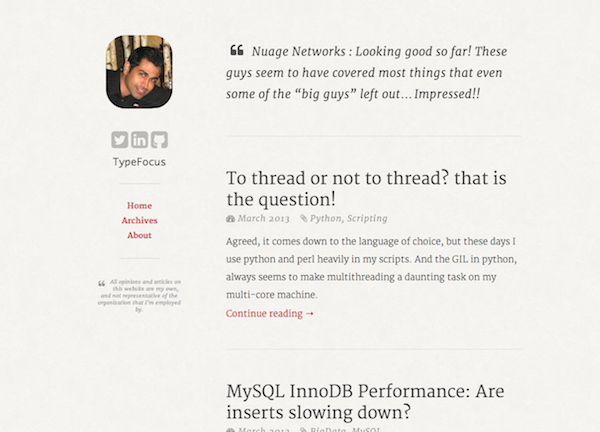
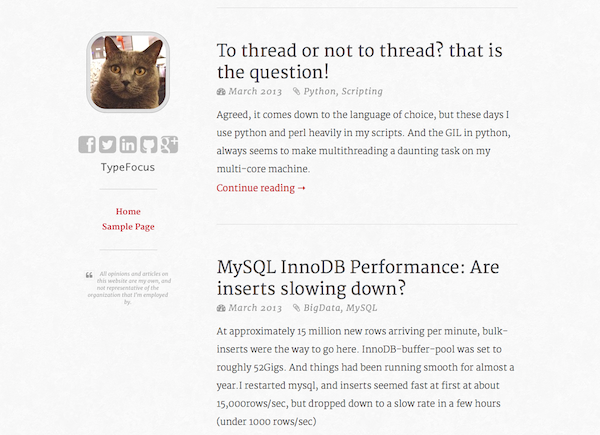
.

diff --git a/typefocus-neutral.css b/typefocus-neutral.css
@@ -196,7 +196,11 @@ i.fa-quote-left{
     border-radius: 40px;
 	-webkit-border-radius: 40px;
 	-moz-border-radius: 40px;
-   
+    padding:0.7rem;
+    background:rgba(0,0,0,0.1);
+    border-color: rgba(0,0,0,0.2);
+    border-width:0.1rem;
+    border-style:solid;  
     
 }
 h1.site-title{
@@ -204,12 +208,14 @@ h1.site-title{
     margin-bottom:30px;
 }
 h2.site-description{
-    font: 300 1.4rem "Gill Sans", "Gill Sans MT", Calibri, sans-serif;
+    font: 300 1.6rem  'Merriweather', serif;
     width:60%;
     margin:0 auto;
     margin-bottom:30px;
+	display:none;
 }
-#menu-navbar{
+#menu-navbar,
+ul.nav-menu{
     border-top:1px solid #ccc;
     border-bottom:1px solid #ccc;
     padding:30px 0px;
@@ -217,10 +223,12 @@ h2.site-description{
     display: inline-block;
     
 }
-#menu-navbar li{
+#menu-navbar li,
+ul.nav-menu li{
     float:none;
 }
-#menu-navbar li a{
+#menu-navbar li a,
+ul.nav-menu li a{
     font: 700 1.6rem  'Merriweather', serif;
     padding:5px;
     text-decoration: none;

diff --git a/header.php b/header.php
@@ -22,21 +22,40 @@
 <div id="page" class="hfeed site">
 	<?php do_action( 'before' ); ?>
 	<header id="masthead" class="site-header" role="banner">
-		<div class="author-image"><img src="<?php echo get_theme_mod( 'typefocus_author_image' )?>"/></div>
+		<div class="author-image">
+		<?php if ( get_theme_mod( 'typefocus_author_image_disabled' )==false ): ?>			
+			<?php
+			$auth_img = get_theme_mod( 'typefocus_author_image' );
+			if ( strlen($auth_img)==0 ){
+				$auth_img= get_template_directory_uri()
+				."/images/author-placeholder-nero.jpg";
+			}
+			print "<img src=".$auth_img." />";
+			?>
+		<?php endif; ?>		
+		</div>
 		
 		<!-- Social Icons -->
 		<div class="header-social">
-			<?php	
+		<?php if ( get_theme_mod( 'typefocus_social_disabled' )==false ): ?>
+			<?php
+				if ( sizeof(get_theme_mod(typefocus_social))>0 ){
 				$social_array = get_theme_mod(typefocus_social);
-				foreach ($social_array as $this_social=>$social_link){
-					$img_icon = "fa fa-".str_replace("tf_","",$this_social)."-square";
-					if ($social_link) {
-						print "<a href=\"$social_link\">";
-						print "<i class=\"$img_icon\"></i>";
-						print"</a>";
-					}
-				}		
+					foreach ($social_array as $this_social=>$social_link){
+						if ( $social_link=='' ){
+							// we will put dummy images, cuz user hasnt configured yet
+							$social_link="#";
+						}
+						$img_icon = "fa fa-".str_replace("tf_","",$this_social)."-square";
+						if ($social_link) {
+							print "<a href=\"$social_link\">";
+							print "<i class=\"$img_icon\"></i>";
+							print"</a>";
+						}
+					}		
+				}
 			?>
+		<?php endif; ?>	
 		</div>		
 		
 		<div class="site-branding">

diff --git a/inc/customizer.php b/inc/customizer.php
@@ -36,6 +36,24 @@ function typefocus_author_image_customizer( $wp_customize ) {
             'priority'  => 201
         )
     );
+    
+    // disabling
+    $wp_customize->add_setting(
+        'typefocus_author_image_disabled',
+        array(
+            'default'      => 'false',
+            'transport'    => 'postMessage'
+        )
+    );
+    $wp_customize->add_control(
+        'typefocus_author_image_disabled',
+        array(
+            'label'    => 'Disable TF author-image',
+            'section'  => 'typefocus_author_image',
+            'type'     => 'checkbox',
+        )
+    );    
+    
     $wp_customize->add_setting(
         'typefocus_author_image',
         array(
@@ -101,6 +119,24 @@ function typefocus_social_customizer( $wp_customize ) {
             'priority'  => 203
         )
     );
+    
+    // disabling
+    $wp_customize->add_setting(
+        'typefocus_social_disabled',
+        array(
+            'default'      => 'false',
+            'transport'    => 'postMessage'
+        )
+    );
+    $wp_customize->add_control(
+        'typefocus_social_disabled',
+        array(
+            'label'    => 'Disable TF social-icons',
+            'section'  => 'typefocus_social',
+            'type'     => 'checkbox',
+        )
+    );
+    
     // facebook
     $wp_customize->add_setting(
         'typefocus_social[tf_facebook]',
